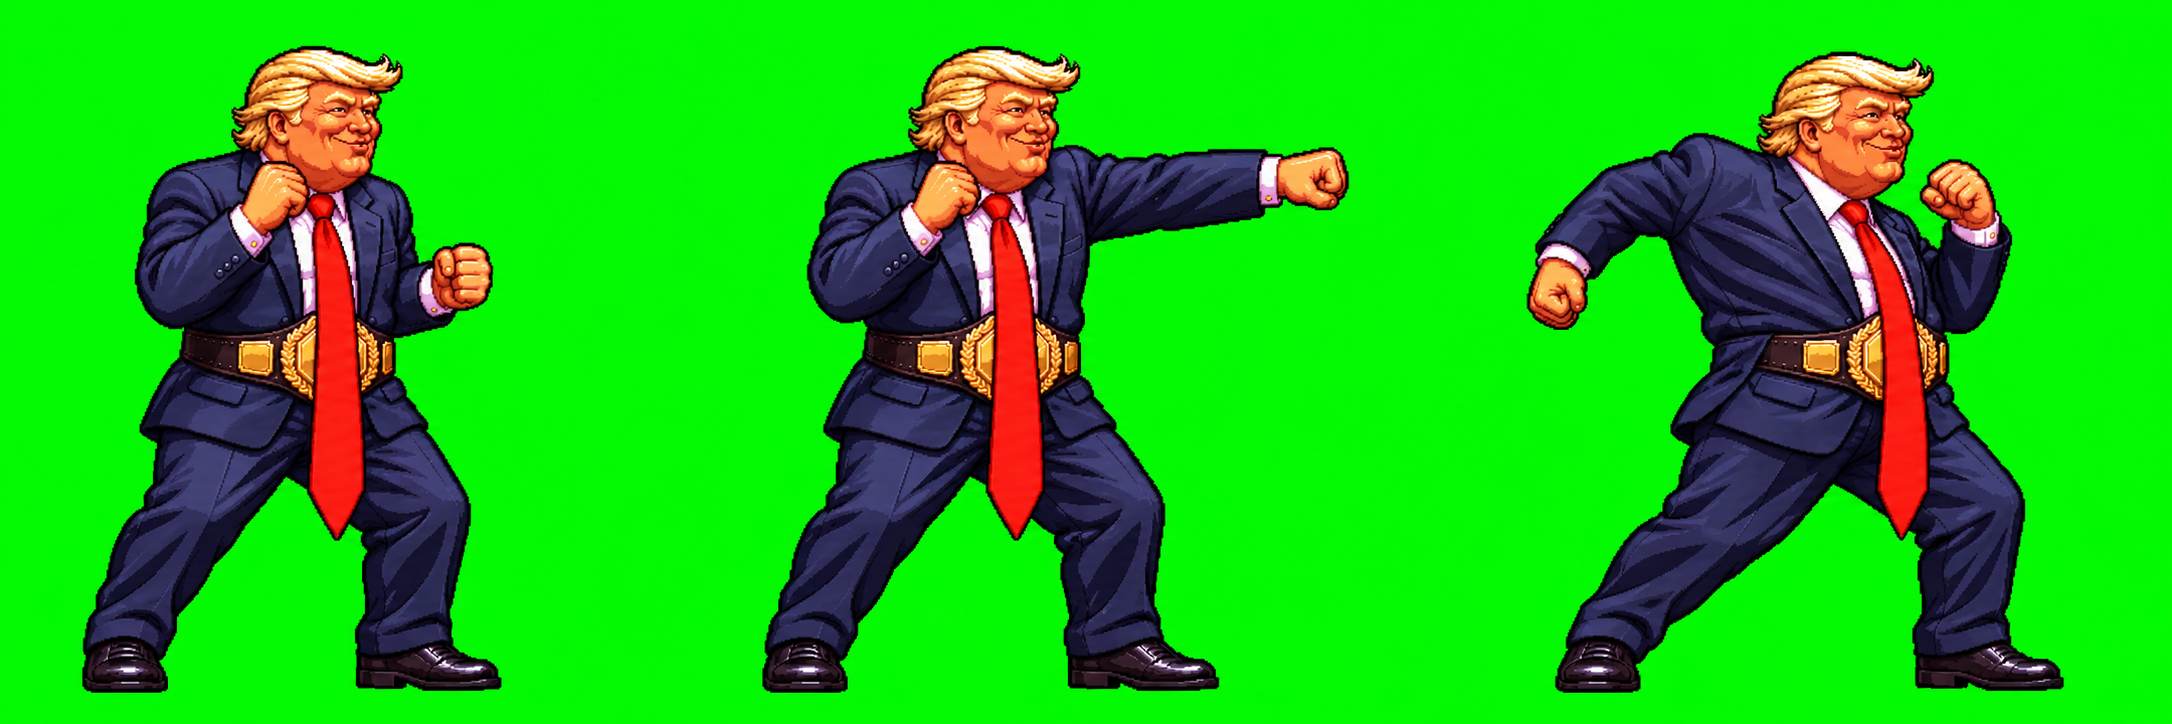
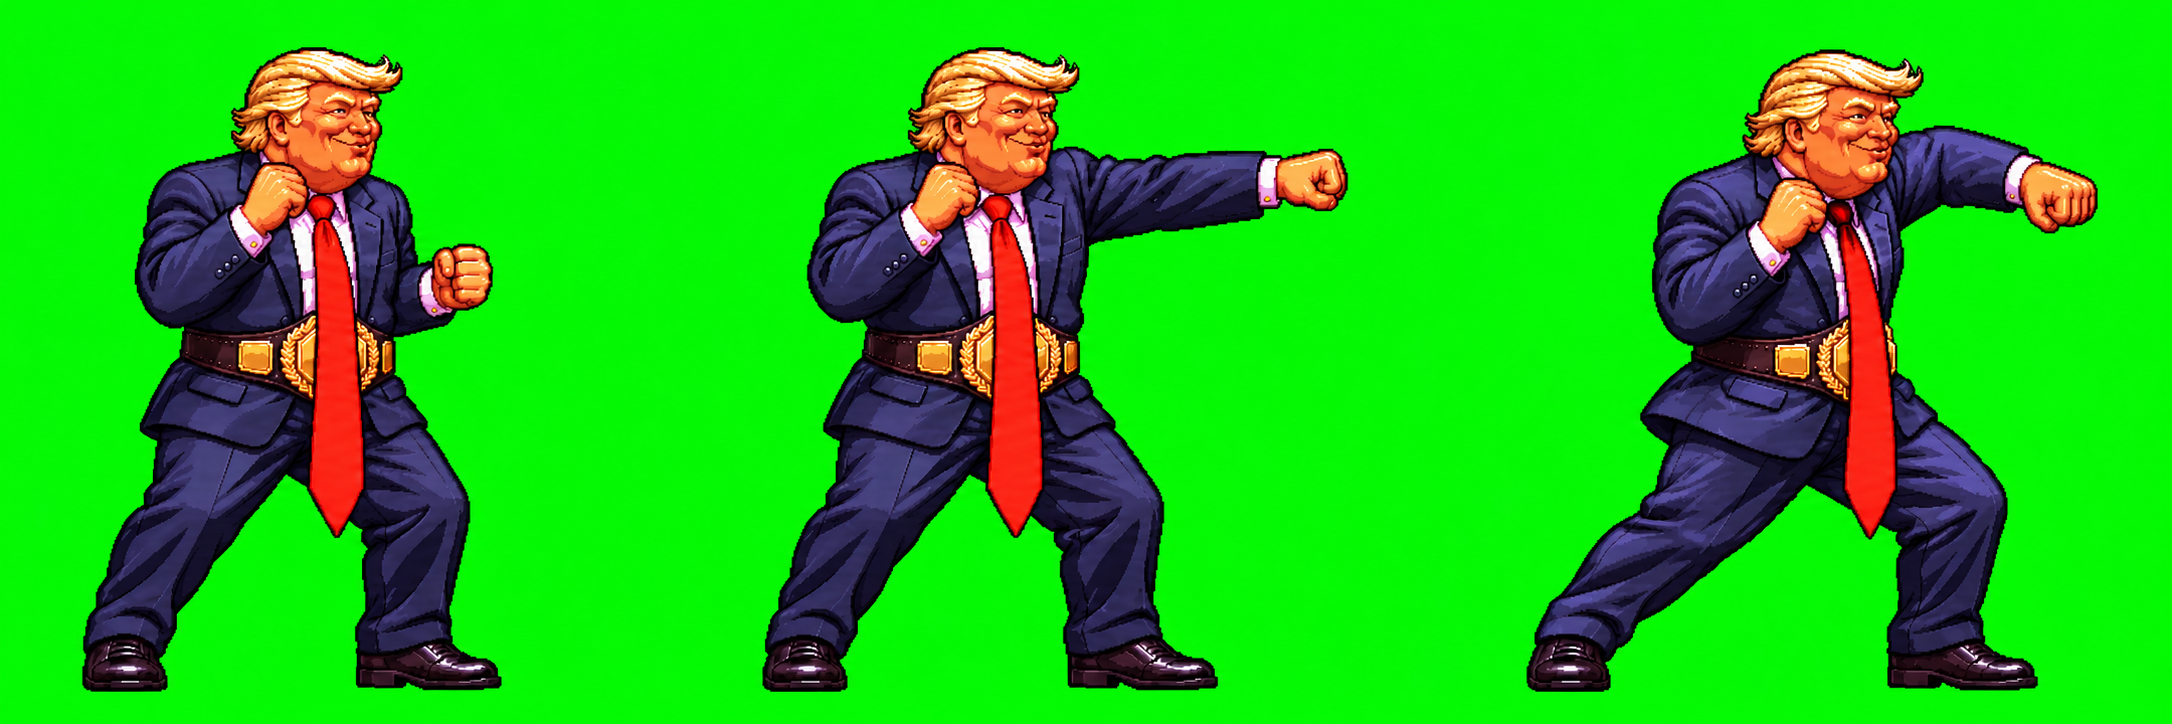
Трамп: исправленный лист 3, хук
Claude-Session: https://claude.ai/code/session_012zTuWBEuaUwbBpzq3EaXfe

diff --git a/sprites.js b/sprites.js
@@ -426,6 +426,11 @@ window.SPRITES = {
    "ax": 104,
    "ay": 281
   },
+  "hook": {
+   "src": "assets/sprites/trump/hook.png",
+   "ax": 115,
+   "ay": 280
+  },
   "counter": {
    "src": "assets/sprites/trump/counter.png",
    "ax": 118,

diff --git a/tools/build_sprites.py b/tools/build_sprites.py
@@ -53,7 +53,6 @@ OWN = {
         "item_sax": ("09", 0, "item"), "fatality": ("09", 1, "feet"), "ending": ("09", 2, "feet"),
     },
     "trump": {
-        "hook": None,  # третья поза листа 3 бьёт назад — ждём исправленный лист
         "sp_fired": ("08", 0, "feet"), "special": ("08", 0, "feet"), "super": ("08", 1, "feet"), "super_2": ("08", 2, "feet"),
         "item_clipper": ("09", 0, "item"), "item_chair": ("09", 1, "item"), "fatality": ("09", 2, "feet"),
         "sp_deal": ("12", 0, "feet"), "sp_bigleague_0": ("12", 1, "feet"), "sp_bigleague": ("12", 2, "feet"),
